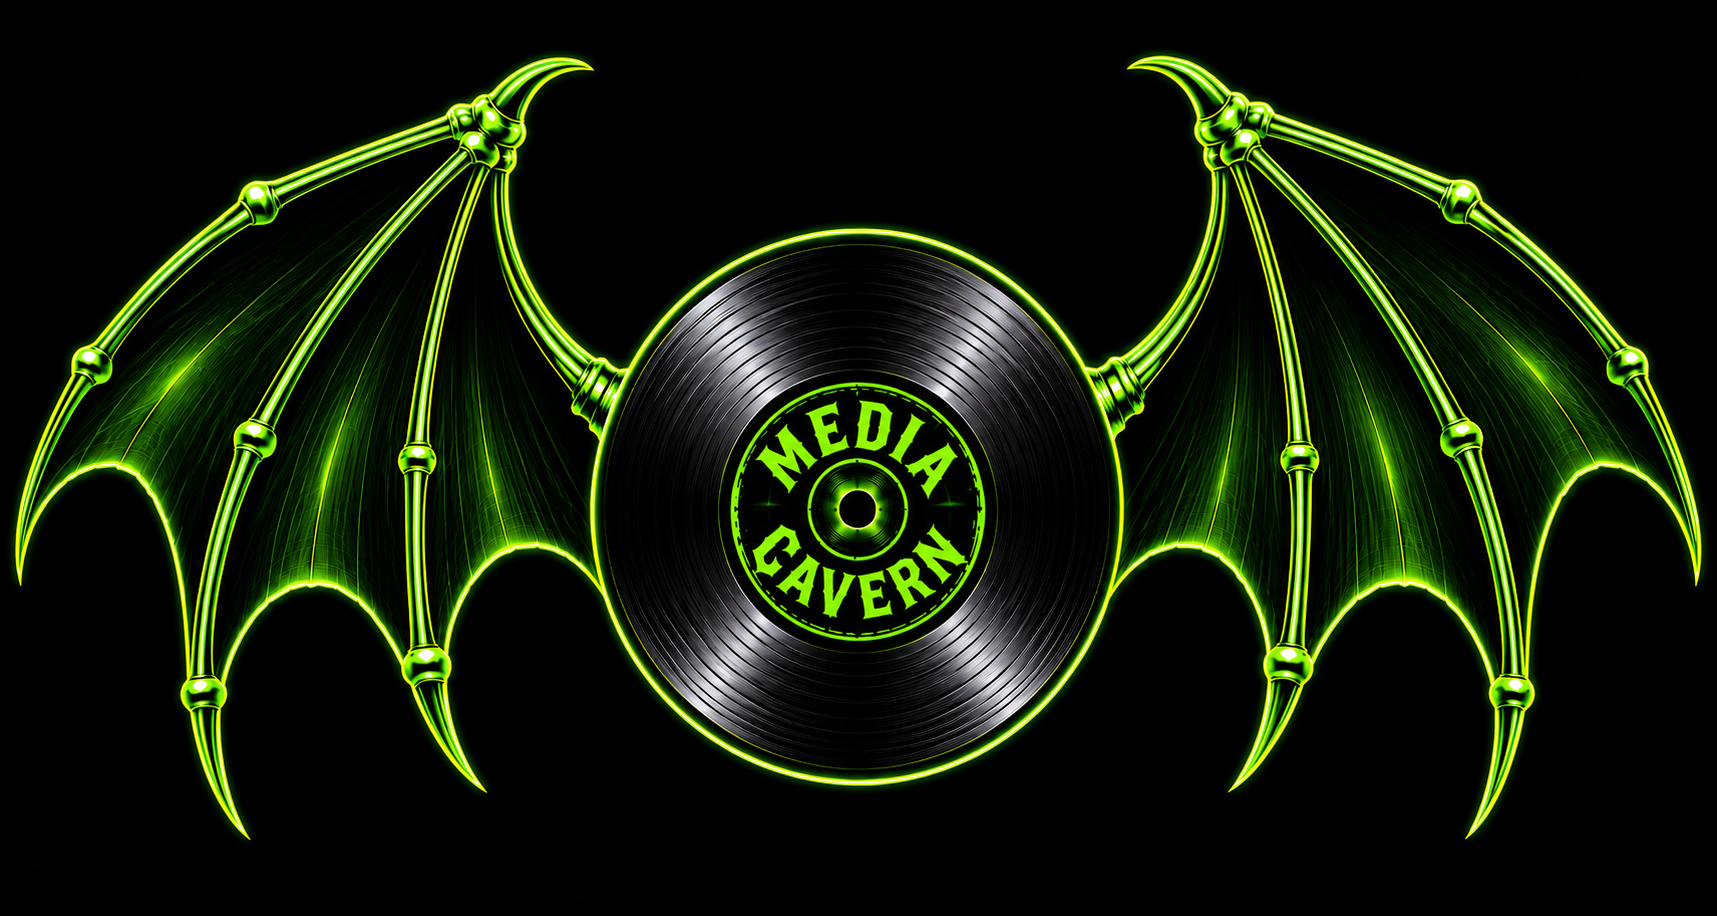
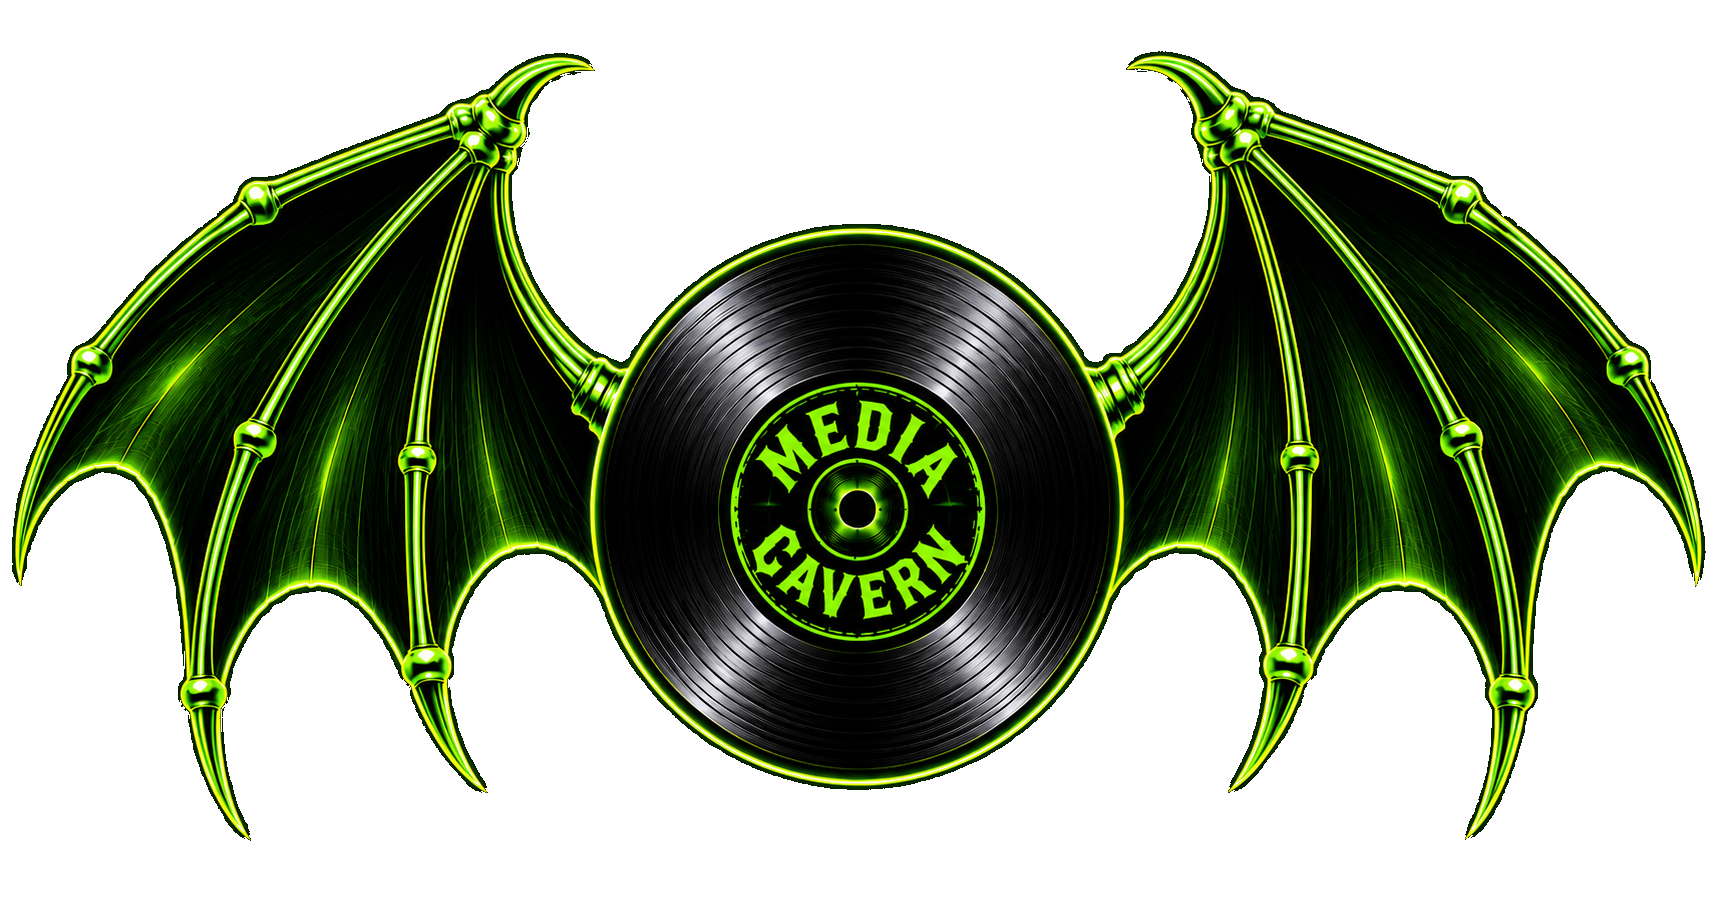
Story ch.02 crop corrected; ch.07 mark shown whole on transparent
CH.02 — the half inch went the wrong way first. Measured: only
184px of horizontal overflow exists at desktop, so half an inch
(96px) is ~26% of the crop range. Raising 62% -> 88% moved the crop
window right and clipped the C off CD WAREHOUSE. Lowering to 36%
moves the PICTURE right instead and brings the whole sign into
view, with breathing room 45% did not leave.

CH.07 — the mark is artwork, not photography, so it is no longer
poured into a 4:3 photo frame. New plate/artwork branch renders it
whole with object-fit: contain, no border box, no background panel.

The PNG now carries a real alpha channel. A luminance threshold
would have punched a hole through the black vinyl record in the
middle, so the background is removed by flood fill from the border:
only black actually connected to an edge goes transparent. 56.5%
cleared, record intact, verified over a non-black backdrop.

Claude-Session: https://claude.ai/code/session_01TxnQyZqBTdWbQWQCJciWv9

diff --git a/data/story.ts b/data/story.ts
@@ -65,6 +65,9 @@ export type Chapter = {
     caption?: string;
     /** CSS object-position, for frames whose subject is off-centre. */
     objectPosition?: string;
+    /** Show the whole image — no crop, no frame box. For artwork
+        rather than photography. */
+    whole?: boolean;
     /** Global clip-path mask from globals.css. */
     edge?: "a" | "b" | "c";
   };
@@ -111,9 +114,13 @@ export const CHAPTERS: readonly Chapter[] = [
       alt: "The illuminated CD Warehouse storefront sign at night.",
       caption: "The sign he kept walking under.",
       edge: "a",
-      /* The sign sits right of centre in frame; a centred crop cut it.
-         Percentage keeps the correction responsive. */
-      objectPosition: "62% 50%",
+      /* Half an inch of travel, measured rather than guessed: only
+         184px of horizontal overflow exists at desktop, so half an
+         inch (96px) is ~26% of the crop range. 62% -> 36% moves the
+         PICTURE right within the frame, which brings the whole
+         "CD WAREHOUSE" sign into view. Going the other way to 88%
+         clipped the C. Percentage keeps it responsive across widths. */
+      objectPosition: "36% 50%",
     },
   },
   {
@@ -213,6 +220,9 @@ export const CHAPTERS: readonly Chapter[] = [
       height: 916,
       alt: "The Media Cavern mark: a black vinyl record labelled Media Cavern, flanked by green neon wings.",
       caption: "Cavern, not cave. Not a warehouse either.",
+      /* Artwork, not a photograph — never cropped, and no frame box
+         around it. The background is a real alpha channel. */
+      whole: true,
     },
   },
   {

diff --git a/app/the-story/page.tsx b/app/the-story/page.tsx
@@ -146,7 +146,7 @@ export default function TheStoryPage() {
                   <figure className={styles.figure}>
                     <div
                       className={[
-                        styles.frame,
+                        chapter.image.whole ? styles.plate : styles.frame,
                         chapter.image.edge ? `image-edge-${chapter.image.edge}` : "",
                       ]
                         .filter(Boolean)
@@ -159,7 +159,9 @@ export default function TheStoryPage() {
                         height={chapter.image.height}
                         loading="lazy"
                         sizes="(max-width: 60rem) 100vw, 42vw"
-                        className={styles.image}
+                        className={
+                          chapter.image.whole ? styles.artwork : styles.image
+                        }
                         /* Percentage crop for frames whose subject sits
                            off-centre; responsive by construction. */
                         style={

diff --git a/app/the-story/page.module.css b/app/the-story/page.module.css
@@ -603,3 +603,29 @@
     animation: none;
   }
 }
+
+/* ---------- Artwork plate ----------
+   For the winged mark in chapter 07. Artwork, not photography: it is
+   shown whole, never cropped, with no border box and no background
+   panel. The PNG carries a real alpha channel, so it sits directly
+   on the page. */
+
+.plate {
+  display: flex;
+  align-items: center;
+  justify-content: center;
+  width: 100%;
+}
+
+.artwork {
+  width: 100%;
+  height: auto;
+  /* contain, not cover — the whole mark or nothing. */
+  object-fit: contain;
+  transform: none;
+}
+
+/* The reveal scales photographs slightly; the mark stays put. */
+[data-reveal][data-visible="true"] .artwork {
+  transform: none;
+}
